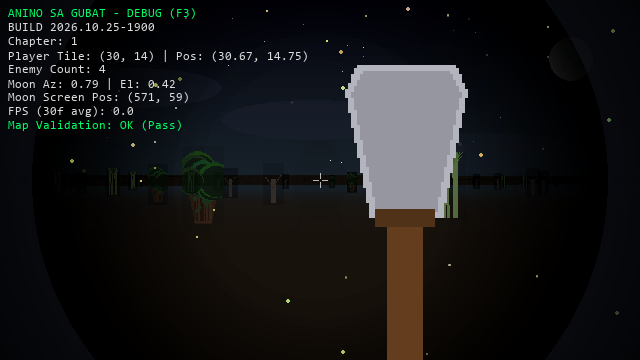
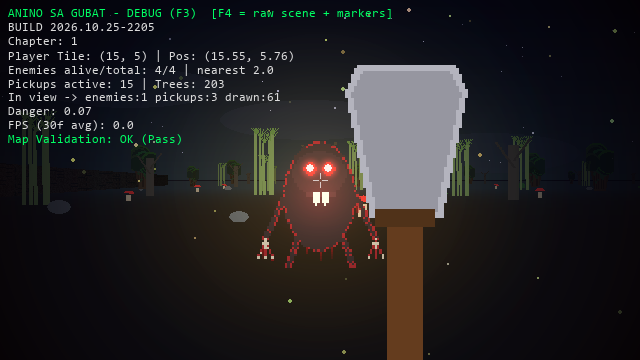
feat(map): add procedural forest undergrowth and update test harness
Introduce procedural generation for forest undergrowth items (ferns, mushrooms, rocks, bushes) within the GameMap system and clean up duplicate functions in the render test harness along with updated screenshot assets.

diff --git a/tests/test_render.py b/tests/test_render.py
@@ -106,87 +106,3 @@ def run_harness():
 
 if __name__ == '__main__':
     run_harness()
-
-
-
-def run_harness():
-    os.makedirs('shots', exist_ok=True)
-    print("=== STARTING RENDER TEST HARNESS ===")
-    
-    game = Game()
-    game.new_game()
-    
-    # Run 5 initial frames
-    for i in range(5):
-        game.dt = 0.016
-        game.update()
-        game.draw()
-    
-    screen_path = "shots/frame_1.png"
-    pygame.image.save(game.screen, screen_path)
-    print(f"[PASS] Saved initial frame to {screen_path}")
-    
-    # Print entity diagnostics
-    print("\n--- ENTITY DIAGNOSTICS ---")
-    player = game.player
-    for idx, enemy in enumerate(game.enemy_manager.enemies):
-        dx = enemy.x - player.x
-        dy = enemy.y - player.y
-        dist = math.sqrt(dx * dx + dy * dy)
-        angle = math.atan2(dy, dx) - player.angle
-        while angle > math.pi: angle -= 2 * math.pi
-        while angle < -math.pi: angle += 2 * math.pi
-        in_fov = abs(angle) <= game.renderer.half_fov + 0.2
-        print(f"Enemy #{idx} ({enemy.type}): pos=({enemy.x:.2f}, {enemy.y:.2f}), dist={dist:.2f}, angle={angle:.2f}, in_fov={in_fov}, alive={enemy.alive}")
-        
-    for idx, pickup in enumerate(game.map_system.pickups):
-        dx = pickup['x'] - player.x
-        dy = pickup['y'] - player.y
-        dist = math.sqrt(dx * dx + dy * dy)
-        angle = math.atan2(dy, dx) - player.angle
-        while angle > math.pi: angle -= 2 * math.pi
-        while angle < -math.pi: angle += 2 * math.pi
-        in_fov = abs(angle) <= game.renderer.half_fov + 0.2
-        print(f"Pickup #{idx} ({pickup['type']}): pos=({pickup['x']:.2f}, {pickup['y']:.2f}), dist={dist:.2f}, angle={angle:.2f}, in_fov={in_fov}, active={pickup.get('active', True)}")
-
-    # Test placing player near nearest enemy / pickup
-    if game.enemy_manager.enemies:
-        target_enemy = game.enemy_manager.enemies[0]
-        # Place player 2 units away facing enemy
-        angle_to_enemy = math.atan2(target_enemy.y - player.y, target_enemy.x - player.x)
-        player.x = target_enemy.x - math.cos(angle_to_enemy) * 2.0
-        player.y = target_enemy.y - math.sin(angle_to_enemy) * 2.0
-        player.angle = angle_to_enemy
-        
-        game.update()
-        game.draw()
-        pygame.image.save(game.screen, "shots/near_enemy.png")
-        print("[PASS] Saved shots/near_enemy.png")
-
-    if game.map_system.pickups:
-        target_pickup = game.map_system.pickups[0]
-        angle_to_pickup = math.atan2(target_pickup['y'] - player.y, target_pickup['x'] - player.x)
-        player.x = target_pickup['x'] - math.cos(angle_to_pickup) * 1.5
-        player.y = target_pickup['y'] - math.sin(angle_to_pickup) * 1.5
-        player.angle = angle_to_pickup
-        
-        game.update()
-        game.draw()
-        pygame.image.save(game.screen, "shots/near_pickup.png")
-        print("[PASS] Saved shots/near_pickup.png")
-
-    # Test nolight shot (turning off flashlight and dark overlay)
-    old_on = player.flashlight_on
-    player.flashlight_on = False
-    game.renderer.flashlight.on = False
-    game.update()
-    game.draw()
-    pygame.image.save(game.screen, "shots/nolight.png")
-    player.flashlight_on = old_on
-    game.renderer.flashlight.on = old_on
-    print("[PASS] Saved shots/nolight.png")
-
-    print("=== TEST HARNESS COMPLETE ===")
-
-if __name__ == '__main__':
-    run_harness()

diff --git a/map_system.py b/map_system.py
@@ -14,6 +14,7 @@ class GameMap:
         self.height = MAP_SIZE  # 64
         self.grid = [[EMPTY for _ in range(self.width)] for _ in range(self.height)]
         self.trees = []
+        self.undergrowth = []
         self.pickups = []
         self.enemies = []
         self.checkpoints = []
@@ -68,6 +69,30 @@ class GameMap:
                     'x': tx, 'y': ty, 'type': t_type,
                     'scale': rng_map.uniform(0.8, 1.4), 'tint': rng_map.randint(200, 255)
                 })
+
+        # Generate dense legitimate forest undergrowth (ferns, mushrooms, rocks, bushes)
+        self.undergrowth = []
+        plant_types = ['fern', 'mushroom', 'rock', 'bush']
+        p_count = UNDERGROWTH_DENSITY
+        while len(self.undergrowth) < p_count:
+            px = rng_map.uniform(2.0, float(self.width - 2))
+            py = rng_map.uniform(2.0, float(self.height - 2))
+            if math.hypot(px - 4.5, py - 4.5) < 3.0:
+                continue
+            if 27 <= px <= 38 and 27 <= py <= 38:
+                continue
+            in_tree = False
+            for t in self.trees:
+                if math.hypot(t['x'] - px, t['y'] - py) < 0.9 * t['scale']:
+                    in_tree = True
+                    break
+            if in_tree:
+                continue
+            p_type = rng_map.choice(plant_types)
+            self.undergrowth.append({
+                'x': px, 'y': py, 'type': p_type,
+                'scale': rng_map.uniform(0.7, 1.3)
+            })
 
         if chapter_num == 1:
             self.player_start = (4.5, 4.5)
